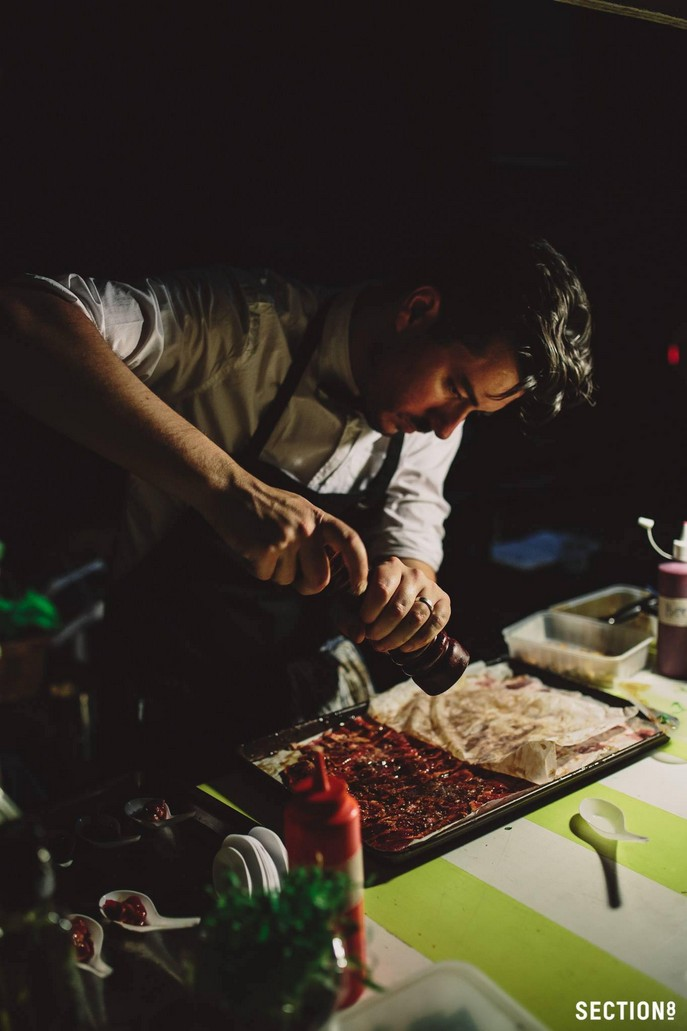
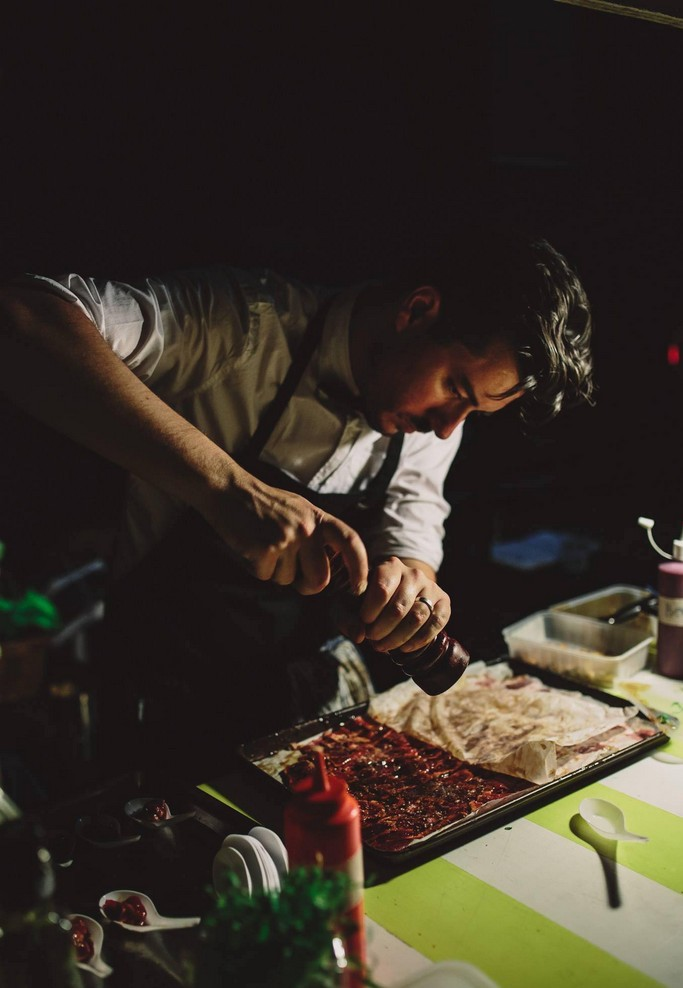
docs: Morris Danzen, and the story the venue sites could not tell
The chef who appears nowhere on Alma's site is now the best-documented in the
library: 14 supplied photographs from two professional shoots, and a published
interview carrying the strongest story in the festival.

It also corrects a reading of the programme. CMD is Catanghal Morris Danzen — the
Aug 27 booking is not a restaurant collaboration but Morris bringing his own supper
club into Luis's dining room. Alma's site says nothing about that.

The Jarrod link is now confirmed from both sides: Morris was interviewed at the same
Boodle Brunch, Nine Yards, 180 covers, Abi Marquez's first professional service. Two
chefs on consecutive festival nights, one collaboration behind them.

His father went blind when he was twelve; he cooked over wood because otherwise
nobody ate. He wanted to be a painter, became a photographer and a singer, married
into a Sicilian trattoria, turned it Filipino, beat Gino D'Acampo on Italian
television, and lost the job to Brexit and the pandemic. He does not want a
restaurant — he wants a bigger radius.

Images are a working set: 3840px long edge, enough for a 4K slide or A4 at 300dpi.
The camera originals and three .ARW raws stay in the supplied Drive folder, out of
git, on the same rule as /video-source. 105MB of masters became 32MB of working
files.

diff --git a/chef-presentation/chefs/morris-danzen.md b/chef-presentation/chefs/morris-danzen.md
@@ -1,0 +1,140 @@
+# Chef Morris Danzen Catanghal
+
+**Buono, Parkdale · CMD Supper Club**
+
+> **Provenance: photographs supplied by the festival; biography from a published interview.**
+> The images are cleared. The words below are summarised from *Conversation with a Chef* #344
+> (31 March 2026) — quote it as their interview, don't present it as festival copy.
+
+**Festival event:** Alma × **CMD Supper Club** tasting menu · **Aug 27** · 1st seating 5pm,
+2nd 8pm · price TBD. With **Chef Luis Martinez** at Alma. See [alma.md](../venues/alma.md).
+
+**CMD is him** — Catanghal Morris Danzen. The Alma booking is not a restaurant collaboration in
+the ordinary sense; it is Morris bringing **his own supper club** to Siargao for a night.
+
+Files in `assets/morris-danzen/`.
+
+---
+
+## Chef shots — 8
+
+**The strongest chef photography in the library, by a distance.** Two separate professional
+shoots, both cleared, and they cover registers nothing else here reaches.
+
+### The street shoot
+
+| File | What it is | Size |
+|---|---|---|
+| `chef-morris-plating-closeup.jpg` | Bent low over a bowl with tweezers, glasses down, tattooed forearm braced on the pass. Total concentration. **The best technique shot in the library** — and the frame that matches his own line about cooking being a form of painting. | 3840×2560 |
+| `chef-morris-city-street.jpg` | Standing still in whites, arms folded, in a busy city street with the crowd blurred around him. Editorial, and the most striking single image of any chef here. | 3840×2445 |
+| `chef-morris-laneway-portrait.jpg` | Against a graffiti laneway wall, jacket over one shoulder. Melbourne in one frame. | 2747×3840 |
+
+### The Federal Coffee shoot
+
+| File | What it is | Size |
+|---|---|---|
+| `chef-morris-portrait-arcade.jpg` | Standing centred under the lit arches of the arcade, hands behind his back, whites and a tan apron. **The formal portrait** — symmetrical and calm. | 2559×3840 |
+| `chef-morris-portrait-arcade-laughing.jpg` | The same setup, laughing. Warmer, and truer to how the interviewer describes him. | 2559×3840 |
+| `chef-morris-federal-coffee-doorway.jpg` | Framed in the Federal Coffee doorway, the red interior glowing behind him. | 2559×3840 |
+| `chef-morris-kitchen-briefing.jpg` | In the kitchen with two other chefs, reading a docket, mid-brief. Small room, real service. | 2559×3840 |
+| `chef-morris-at-service.jpg` | In profile among guests during service, listening. Candid. | 2803×1869 |
+
+## Food shots — 5
+
+From the Boodle Brunch service — Filipino cooking with Australian produce.
+
+| File | What it is | Size |
+|---|---|---|
+| `food-kinilaw-with-flatbread.jpg` | Cured seafood with a charred flatbread and orange purée, white plate on deep red. **Kinilaw — festival vocabulary.** | 2559×3840 |
+| `food-dumplings-in-broth.jpg` | Dumplings in a golden broth with roe, crisp nori and cress. The most technical plate. | 3840×2559 |
+| `food-meat-with-coconut-crumb.jpg` | Braised meat under a coconut crumb with corn and shredded strands. **Coconut**, which is the theme of the day he cooks. | 3840×2559 |
+| `food-wooden-board-course.jpg` | A dark, dense course on a wooden board with crisp topping, piped purée and flowers. | 3840×2559 |
+| `food-banana-leaf-bowl.jpg` | A small bowl on orange cloth — banana leaf, diced fruit, a quenelle. **Banana leaf**, which is the boodle in miniature. | 2560×3840 |
+
+## Venue shots — 1
+
+| File | What it is | Size |
+|---|---|---|
+| `venue-long-table-under-arches.jpg` | The long table running down the lit stone arcade, guests down both sides. **The boodle format in a Melbourne colonnade** — the whole idea of his cooking in one frame. | 3840×2559 |
+
+---
+
+## Biography
+
+From *Conversation with a Chef* #344, interviewed at the Boodle Brunch during the Melbourne Food
+& Wine Festival.
+
+**The beginning.** His father went blind when Morris was **twelve or thirteen**. He and his
+younger brother took over the care, and he learned to cook — over wood, with whatever produce
+there was. In his words: they were so poor they ate once a day, and as a child that was simply
+normal. He credits that with training him before he knew he was being trained — limited
+ingredients, no choice, cook or don't eat.
+
+**The detour.** His first love was fine art; he drew and painted, but studying it in the
+Philippines was beyond reach, so he took multimedia technology and worked as a freelance
+photographer, videographer **and singer**. He went to China to work with his sister, planning to
+save up and open a photography shop back home.
+
+**Italy.** He met his wife, who is Italian, and they moved to Sicily. Photography and music work
+was scarce; his in-laws ran a trattoria, so he went into the kitchen — and turned it into
+Filipino-Italian fusion in a Sicilian town of 44,000 people used to eating traditional Sicilian
+food. **At first, people hated it.** He brought in sweet potato, coconut milk and calamansi,
+driving an hour each way to find them, and cooked them with Italian technique.
+
+**The turn.** Pushed by his mother-in-law — "my number one fan" — he entered a televised cooking
+competition in Italy **and won it, against Gino D'Acampo**. He was to become head chef in
+D'Acampo's restaurant; **Brexit and the pandemic ended that**. The win still built the
+restaurant's name, and people came from across Italy and America. Then the pandemic closed it for
+good.
+
+**Melbourne.** Fabio Magliano of **Buono** called about a working-holiday visa. He took it. He now
+cooks **modern Italian at Buono in Parkdale**, and runs **CMD Supper Club** as his own outlet —
+one Monday or Thursday night a month, in borrowed rooms, inviting chefs from abroad.
+
+**Nearly fifteen years in.** He says he never dreamed of being a chef, and doesn't dream of a
+restaurant either: he wants to travel, cook, learn from other chefs and collaborate — a bigger
+radius reaches more people than a room does. He describes composing a dish the way he composed a
+painting or a cover of a song: dynamics, contrast, fine lines and hard lines.
+
+## On the boodle
+
+He is the right person to explain the word the festival already uses.
+
+- There is **no occasion for it.** If everyone is free on an afternoon with nothing to do, they
+  pick banana leaves, cook, tip it out and eat together. It is the norm, not an event.
+- **"No one eats alone in the Philippines."** A family of six will wait for the sixth. Eating
+  alone is close to shameful.
+- Usually done **under a tree or near the beach.**
+- The Melbourne menu was **95% Filipino** with Australian produce carrying the rest — wattleseed
+  lamb in the lumpia in place of pork, prawns basted in lemon myrtle oil — deliberately, because
+  Filipino food is not yet widely known there.
+- On why the cuisine is what it is: thousands of islands, each with its own produce and cooking;
+  Malay influence in the south, more Spanish braising in the north, seafood and ceviche in the
+  islands. **Adobo began as a preserving technique** — vinegar, garlic, pepper, bay — and only
+  became a soy-sauce dish after the Chinese arrived. Every family has its own recipe.
+
+---
+
+## Two things to check before printing
+
+- **Name.** He is **Morris Danzen Catanghal**. The festival programme lists him as "Chef Morris".
+  Confirm which form he wants.
+- **Abi or Abby.** The interview names his Boodle Brunch collaborator **Abi Marquez**; the
+  festival-supplied Jarrod Moore bio spells it **Abby Marquez**. One of them is wrong.
+
+## Notes
+
+- The Boodle Brunch is the same event that appears in [jarrod-moore.md](jarrod-moore.md) —
+  **Nine Yards, Melbourne Food & Wine Festival, 180 covers.** It was Abi Marquez's first service
+  in a professional kitchen, and Morris talks about guiding her through it. CMD had also done
+  **Noche Buena at Nine Yards** the previous December, which is why they were invited back.
+- **Working set, not masters.** These are capped at 3840px on the long edge and re-encoded — big
+  enough for a 4K slide or A4 at 300dpi. The untouched camera files, including three **`.ARW`
+  raws** (`SSS02316`, `SSS02456`, `SSS02492` — the plating close-up is 7008×4672), are in the
+  supplied Drive folder and are **not** in this repo, following the same rule as `/video-source`.
+  Go back to those for anything printed large.
+- The three street-shoot images came from those raws; everything else is from the Federal Coffee
+  shoot.
+
+Source: [Conversation with a Chef #344](https://www.conversationwithachef.com/conversation/morris-danzen-catanghal-at-buono-cmd-supper-club/),
+31 March 2026. Photographs supplied by the festival, read 24 Aug 2026.

diff --git a/chef-presentation/chefs/jarrod-moore.md b/chef-presentation/chefs/jarrod-moore.md
@@ -57,7 +57,7 @@ and by making every menu and event fun, memorable and boundary-pushing.
   Botanical, Lagotto), native Australian produce meeting Southern American technique
 - **Boodle Brunch** at Nine Yards Melbourne — with food media personality **Abby Marquez** and
   chef **Morris Danzen**, a Filipino boodle fight lunch blending Filipino and native Australian
-  technique
+  technique — 180 covers, and Abi Marquez's first service in a professional kitchen
 
 **Television** — guest appearances on **My Market Kitchen** (Channel 10), **The Project** and the
 **Today Show**, where he famously introduced the hosts to one of the world's hottest chillies live
@@ -81,10 +81,9 @@ events worldwide.
 **1. He has already cooked with a festival chef, in Melbourne.**
 The Boodle Brunch collaboration was with **Morris Danzen** — who cooks the **Alma × CMD Supper
 Club** dinner on Aug 27, the night before Jarrod's dinner at Lyma. Two chefs on consecutive
-nights of this festival have a sold-out Melbourne collaboration behind them. That is the only
-cross-venue connection found anywhere in this library, and it came from the one document the
-team supplied rather than from any venue site — where Morris is otherwise invisible. Worth
-confirming with the festival, then building a slide on.
+nights of this festival have a sold-out Melbourne collaboration behind them. **Confirmed from
+both sides**: Morris was interviewed at that same Boodle Brunch — Nine Yards, Melbourne Food &
+Wine Festival, 180 covers — see [morris-danzen.md](morris-danzen.md). Build the slide.
 
 **2. Boodle, twice.**
 The Melbourne event was a **Filipino boodle fight**. *Boodle* is festival vocabulary. A

diff --git a/chef-presentation/README.md b/chef-presentation/README.md
@@ -37,7 +37,7 @@ Keep the distinction visible in each file, so nobody has to guess what is cleare
 
 | Venue | Instagram | Source found | Chef | Food | Venue |
 |---|---|---|---|---|---|
-| Alma | @almasiargao | [website](https://www.almaphilippines.com/) — all 4 pages → [alma.md](venues/alma.md) | 4 | 9 | 3 |
+| Alma *(+ [Morris Danzen](chefs/morris-danzen.md))* | @almasiargao | [website](https://www.almaphilippines.com/) — all 4 pages → [alma.md](venues/alma.md) | 4 | 9 | 3 |
 | Wild | @wild.siargao | [wildsiargao.ph](https://wildsiargao.ph) — 12 pages → [wild.md](venues/wild.md) | 8 | 9 | 7 |
 | Siargao Corner Café | *none on record* | — | — | — | — |
 | Roots (GL public market) | @roots.siargao | — | — | — | — |
@@ -79,8 +79,12 @@ four cleared images, two media links — and the only cross-venue connection in 
 **Morris Danzen**, who cooks at Alma on Aug 27 and appears nowhere on Alma's site, has a
 sold-out Melbourne collaboration with **Jarrod Moore**, who cooks at Lyma on Aug 28.
 
-**Ask the festival for supplied bios before scraping the next site.** One cleared PDF outranks a
-day of triage.
+**Ask the festival for supplied bios and photo folders before scraping the next site.** One
+cleared PDF outranked a day of triage — and the Morris Danzen folder that followed it is better
+than every venue site put together: 14 professional images, two shoots, plus a published
+interview carrying the best story in the festival.
+
+Scraping is the fallback, not the method.
 
 ## What Alma proved
 

diff --git a/chef-presentation/venues/alma.md b/chef-presentation/venues/alma.md
@@ -108,11 +108,12 @@ tuile) · `food-profiteroles.jpg`
   read.** There is no gallery and no press kit.
 - `?format=2500w` returns the largest stored version, identical to `?format=original`. The pages
   themselves serve 248–382px versions, so scraping what the page displays gets you thumbnails.
-- **Morris Danzen appears nowhere on this site.** Half the festival's Alma billing has no photo
-  and no biography here — but he is *not* undocumented. He cooked the **Boodle Brunch**
-  collaboration at Nine Yards Melbourne with **Chef Jarrod Moore**, who cooks at Lyma the
-  following night. See [jarrod-moore.md](../chefs/jarrod-moore.md); the festival supplied that
-  bio, so it is the place to ask for a photo of Morris too.
+- **Morris Danzen appears nowhere on this site**, but he is now the best-documented chef in the
+  library: [morris-danzen.md](../chefs/morris-danzen.md) — 14 supplied photographs and a full
+  published biography. **Do not build the Alma slide from Alma's site alone.**
+- **"CMD" is Morris.** Catanghal Morris Danzen. The Aug 27 booking is not a restaurant
+  collaboration in the ordinary sense — it is Morris bringing **his own supper club** into Luis's
+  dining room for a night. Alma's site says nothing about this.
 - These are Alma's photographs. Fine to present with credit as a festival venue; message
   @almasiargao before anything is published or printed.
 
